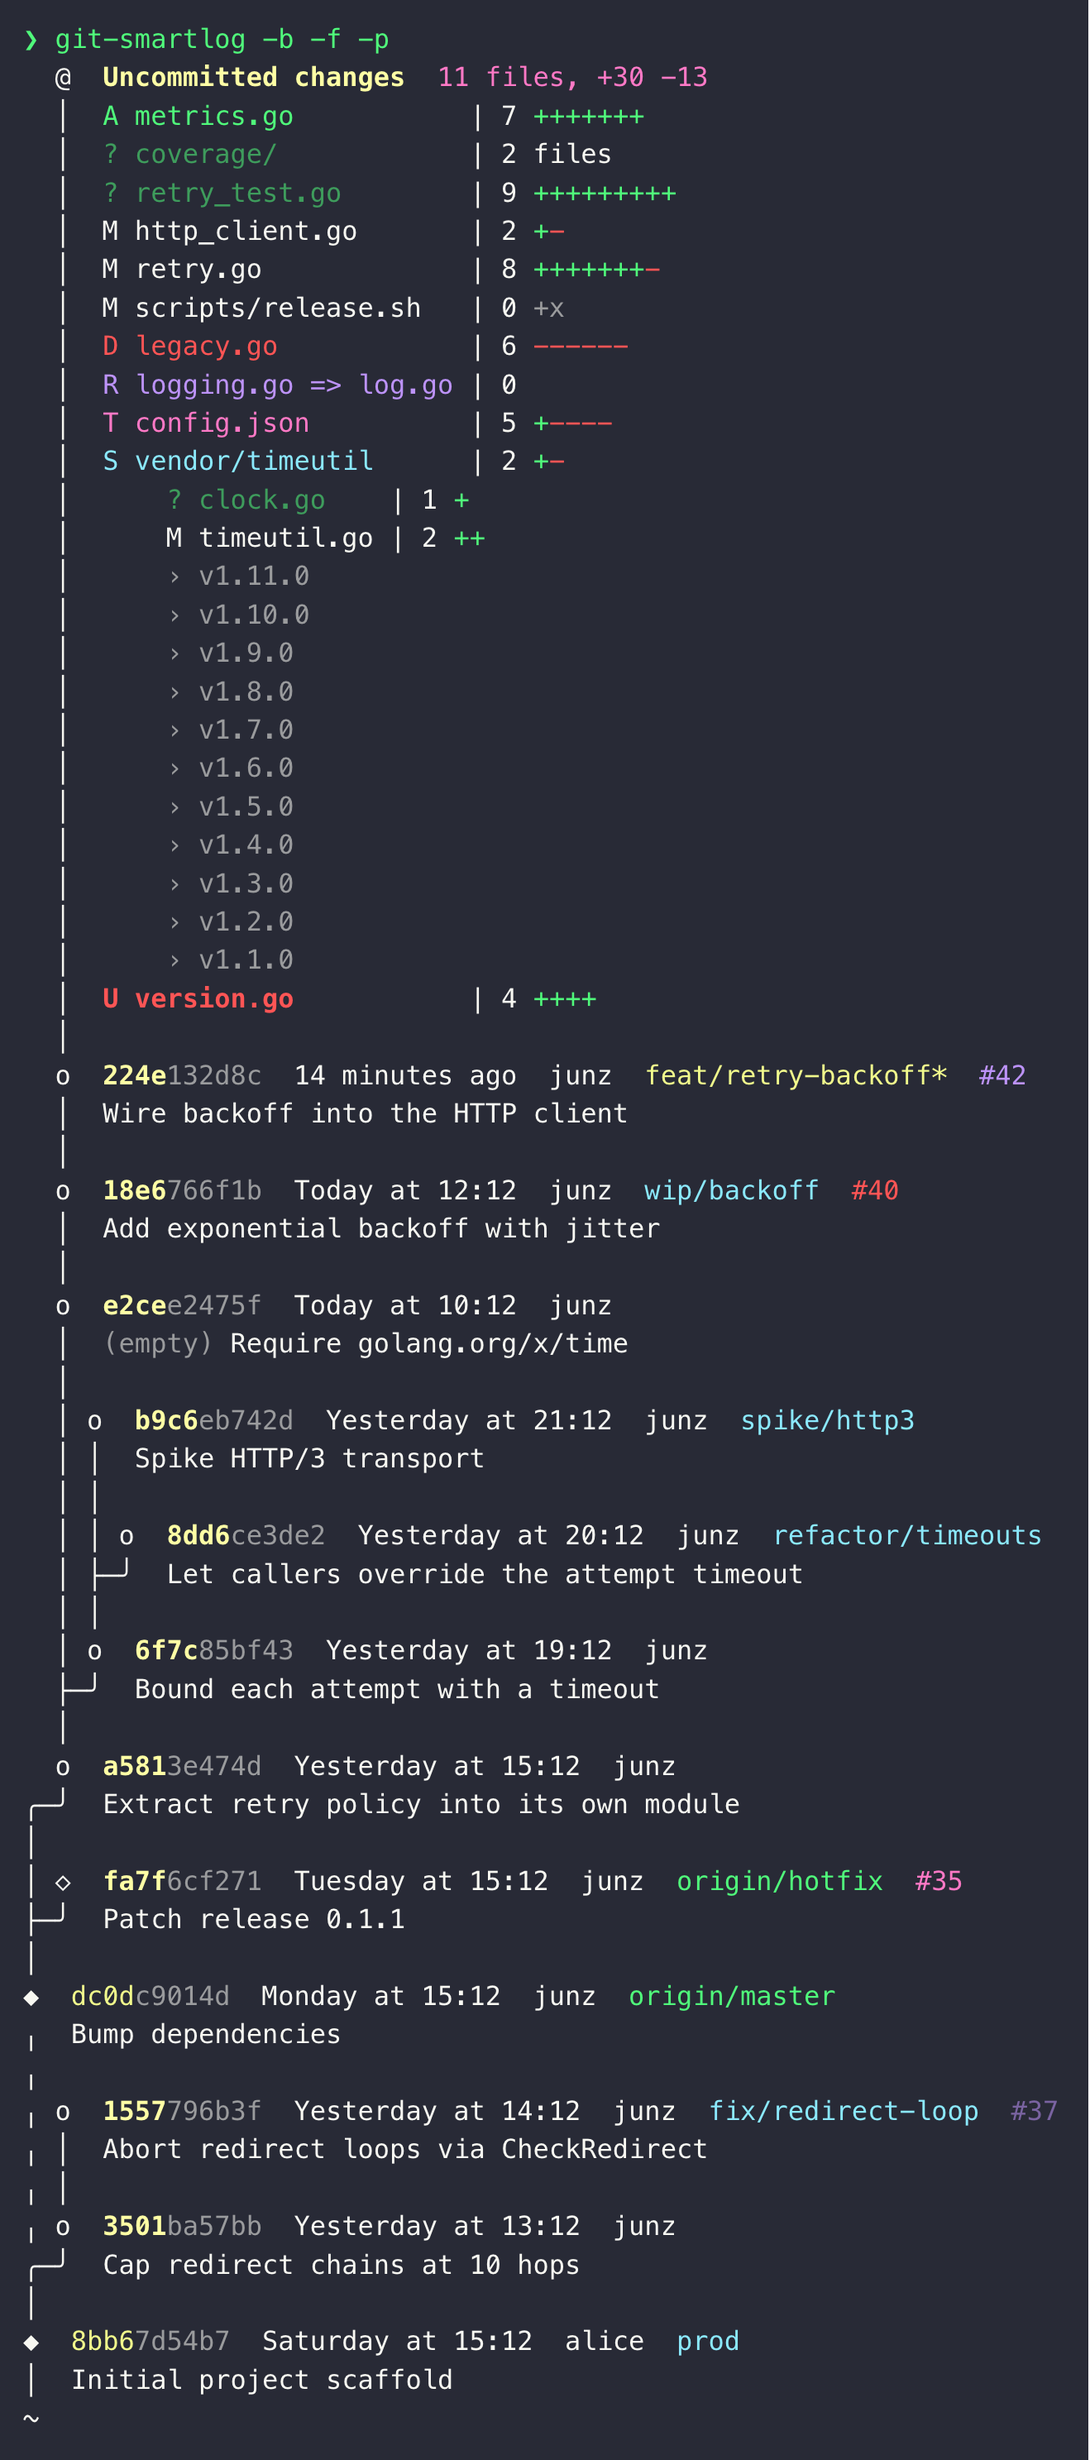
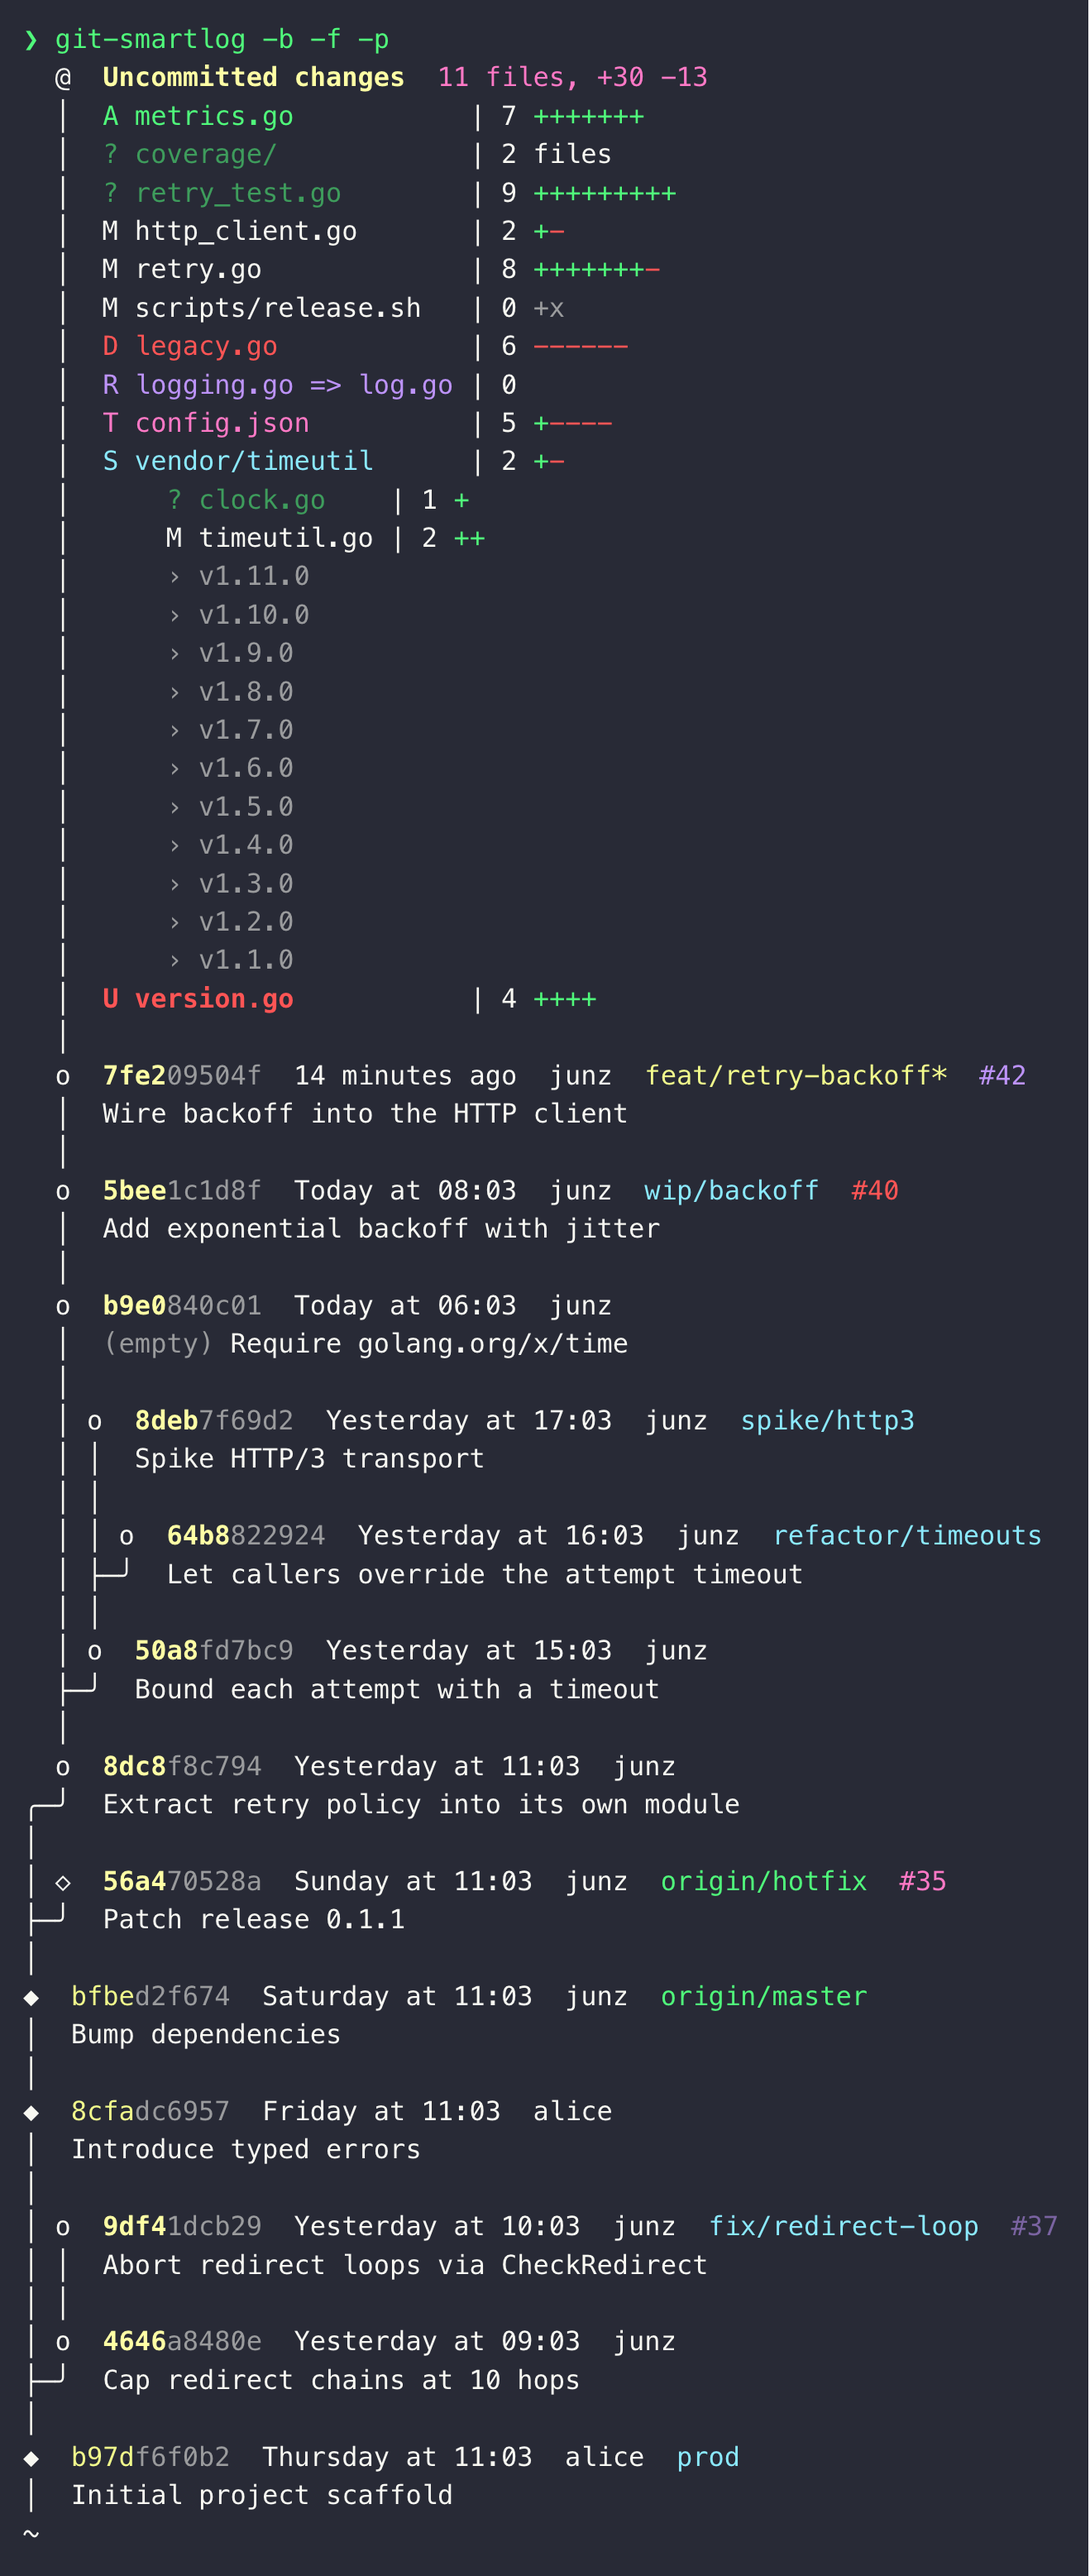
feat: fill small -b gaps under -f
With -b -f, a ╷ elision between shown publics now fills in when it hides
at most $GIT_SMARTLOG_GAP_FILL commits (default 10; 0 never fills). A
one-commit gap cost context and saved nothing; wide gaps still elide, so
a distant fork point can't push the other trees off screen.

Also restores the README usage block's missing -i note (off a terminal
it prints the plain view).

Copilot-Session: 58cf6c6c-0fcd-4d6a-b9bb-0dea36842b71

diff --git a/README.md b/README.md
@@ -228,7 +228,7 @@ $ git smartlog -c
 ~
 ```
 
-With `-b` / `--branches`, every **other local branch** joins the graph too, each rendering its **complete stack**. All heads' chains union into a forest, so a branch **forking from a draft commit** shows as a real fork, and commits **stacked above `HEAD`** — a branch containing `HEAD` while you're checked out mid-stack — appear too, with `@` drawn mid-tree. Fork points join the public column no matter how far down they sit, and commits skipped between them elide to a dotted `╷` spine. Two rules keep the graph quiet: a branch merged into the trunk just labels that commit instead of adding a node (`prod` below), and a branch whose same-name remote ref sits at the same commit shows only the remote name (`origin/hotfix`). Branch names render **cyan**, so they stand apart from green remote refs and the yellow active branch. Everything composes with `-c` and with the `-f` used here, which gives Alice's public commits their full headers and keeps the trunk streaming past the base:
+With `-b` / `--branches`, every **other local branch** joins the graph too, each rendering its **complete stack**. All heads' chains union into a forest, so a branch **forking from a draft commit** shows as a real fork, and commits **stacked above `HEAD`** — a branch containing `HEAD` while you're checked out mid-stack — appear too, with `@` drawn mid-tree. Fork points join the public column no matter how far down they sit, and commits skipped between them elide to a dotted `╷` spine. Two rules keep the graph quiet: a branch merged into the trunk just labels that commit instead of adding a node (`prod` below), and a branch whose same-name remote ref sits at the same commit shows only the remote name (`origin/hotfix`). Branch names render **cyan**, so they stand apart from green remote refs and the yellow active branch. Everything composes with `-c` and with the `-f` used here, which gives Alice's public commits their full headers, fills in the one trunk commit between `origin/master` and `fix/redirect-loop`'s fork point, and keeps the trunk streaming past the base:
 
 <!-- fixture: demo -->
 ```text
@@ -259,45 +259,48 @@ $ git smartlog -b -f
   │      › v1.1.0
   │  U version.go           | 4 ++++
   │
-  o  9c88963f33  14 minutes ago  junz  feat/retry-backoff*
+  o  42216c35a5  14 minutes ago  junz  feat/retry-backoff*
   │  Wire backoff into the HTTP client
   │
-  o  edb0dc38e9  Today at 12:11  junz  wip/backoff
+  o  57daeb2140  Today at 08:02  junz  wip/backoff
   │  Add exponential backoff with jitter
   │
-  o  d1a3bfbf91  Today at 10:11  junz
+  o  4df6239fc9  Today at 06:02  junz
   │  (empty) Require golang.org/x/time
   │
-  │ o  ba349a0ba4  Yesterday at 21:11  junz  spike/http3
+  │ o  ddf1350b1d  Yesterday at 17:02  junz  spike/http3
   │ │  Spike HTTP/3 transport
   │ │
-  │ │ o  bda5ff01ae  Yesterday at 20:11  junz  refactor/timeouts
+  │ │ o  edb584afbf  Yesterday at 16:02  junz  refactor/timeouts
   │ ├─╯  Let callers override the attempt timeout
   │ │
-  │ o  ced6e89fda  Yesterday at 19:11  junz
+  │ o  411fccf502  Yesterday at 15:02  junz
   ├─╯  Bound each attempt with a timeout
   │
-  o  469c357174  Yesterday at 15:11  junz
+  o  0c9d82941c  Yesterday at 11:02  junz
 ╭─╯  Extract retry policy into its own module
 │
-│ ◇  d98069450f  Tuesday at 15:11  junz  origin/hotfix
+│ ◇  5ddd520d79  Sunday at 11:02  junz  origin/hotfix
 ├─╯  Patch release 0.1.1
 │
-◆  f5ad6667d7  Monday at 15:11  junz  origin/master
-╷  Bump dependencies
-╷
-╷ o  f02cdf421c  Yesterday at 14:11  junz  fix/redirect-loop
-╷ │  Abort redirect loops via CheckRedirect
-╷ │
-╷ o  abb3ea8725  Yesterday at 13:11  junz
-╭─╯  Cap redirect chains at 10 hops
+◆  f134637b2e  Saturday at 11:02  junz  origin/master
+│  Bump dependencies
 │
-◆  1307e0e4e5  Saturday at 15:11  alice  prod
+◆  5b149b2ab4  Friday at 11:02  alice
+│  Introduce typed errors
+│
+│ o  e9a4f7c8de  Yesterday at 10:02  junz  fix/redirect-loop
+│ │  Abort redirect loops via CheckRedirect
+│ │
+│ o  574ef1b7bd  Yesterday at 09:02  junz
+├─╯  Cap redirect chains at 10 hops
+│
+◆  8a6c2f1a46  Thursday at 11:02  alice  prod
 │  Initial project scaffold
 ~
 ```
 
-At each fork the spine child (the one on `HEAD`'s path, else the newest subtree) continues the column and every other child opens a column one level deeper, newest first, closing with a `├─╯` bend right above the fork. Narrow the public window back to the default and the elision shows up too:
+At each fork the spine child (the one on `HEAD`'s path, else the newest subtree) continues the column and every other child opens a column one level deeper, newest first, closing with a `├─╯` bend right above the fork. Drop `-f` and the public window narrows back to the fork points themselves, so the trunk commit between them elides:
 
 <!-- fixture: demo -->
 ```text
@@ -366,7 +369,7 @@ $ git smartlog -b
 ~
 ```
 
-Here `refactor/timeouts` forks off a draft of the current stack and `spike/http3` off a draft of *that* branch, so the layout nests one level further. Sibling subtrees render newest-first, and the child on `HEAD`'s path continues the column. Below `origin/master`, `fix/redirect-loop`'s fork point sits two commits down the trunk, so the commit between them elides to the dotted `╷` spine. A dirty working tree draws its uncommitted node directly above `HEAD`, wherever `HEAD` sits in the tree.
+Here `refactor/timeouts` forks off a draft of the current stack and `spike/http3` off a draft of *that* branch, so the layout nests one level further. Sibling subtrees render newest-first, and the child on `HEAD`'s path continues the column. Below `origin/master`, `fix/redirect-loop`'s fork point sits two commits down the trunk, so the commit between them elides to the dotted `╷` spine. `-f` fills a gap like that back in when it hides at most `$GIT_SMARTLOG_GAP_FILL` commits (default 10; `0` never fills); a wider one stays elided either way. A dirty working tree draws its uncommitted node directly above `HEAD`, wherever `HEAD` sits in the tree.
 
 `--base REV` moves the bottom of the graph. The base is normally auto-detected — the nearest remote trunk — which covers `origin/main`, `origin/master` and a correctly-set `origin/HEAD`, and nothing else: a repo whose trunk is `develop` or `release/2.x`, or whose `origin/HEAD` is missing or stale after a rename, needs to be told. Here it's pointed at `prod`, the branch parked on the oldest public commit in the `-b` views above:
 
@@ -455,7 +458,8 @@ The view flags below are independent and combine freely.
   -i, --interactive   browse the graph in fzf: j/k step between commits, enter
                       opens the selected one in git-smartshow (the
                       uncommitted node opens the working copy), ? toggles its
-                      stat, / finds a row (needs fzf)
+                      stat, / finds a row (needs fzf; off a terminal it
+                      prints the plain view, so it is safe in an alias)
   -c, --changes       show per-file changes under every commit in the current
                       stack — or under the public commit in view when HEAD
                       sits on the trunk (pair with -f for history); the
@@ -469,8 +473,9 @@ The view flags below are independent and combine freely.
                       render metadata-only), keep streaming older
                       public history below the base — lazily when paged, like
                       git log — and stop capping a submodule entry's sub-lines
-                      at 10 (-b's ╷ elision stays — it keeps distant fork
-                      points adjacent, which is the point of that view)
+                      at 10; with -b, also fill a ╷ gap between fork points
+                      when it hides at most $GIT_SMARTLOG_GAP_FILL commits
+                      (default 10; 0 never fills) — wider gaps stay elided
   -m, --message       show full commit messages: body lines render dim under
                       each subject — every commit in view, except public
                       commits compacted to metadata-only (lift with -f)
@@ -638,13 +643,13 @@ Piped, `git smartshow` prints the diff once and exits — git's renderer unless 
 - **`(empty)`** — a commit whose tree equals its first parent's (the empty tree for a root commit) gets its subject prefixed `(empty)`, and no `-c` body. jj labels these in its log; git doesn't, so an emptied commit looks like any other. Decided from tree hashes, not diffs: `%T` rides along with the metadata every row already fetches, and the handful of parents outside the window are fetched in one batch rather than a `rev-parse` per row. In the `-f` tail, where there is no window to batch over, rows are held one behind — in a first-parent walk the next record *is* the previous row's parent.
 - **Uncommitted changes** — whenever `git status` is non-empty, a synthetic node on top of `HEAD` carrying compact totals plus per-file `git diff --stat HEAD` bars; the `@` marker moves there. Borrowed from jj, where the working copy *is* a commit and needs no synthesis. The bars need no flag, unlike a commit's: a commit's subject already says what it did, so `-c` is an ask; the working copy has no subject, so its files *are* the description. Totals and bars alike are computed against a throwaway index overlay that intent-to-adds loose untracked files so they're folded in without mutating the repo (a wholly-untracked directory instead collapses to one `dir/ | N files` entry, like `git status`). Each body filename gets a one-letter change marker (`A`/`?`/`M`/`D`/`R`/`T`/`S`/`U`, from `git diff --raw`, plus the porcelain status for conflicts) colored by kind (see the marker table above), and a `+x`/`-x` hint on executable-bit flips. This block is computed by the in-file `uncommitted_stat` function — the same code the [`git-smartstat`](#git-smartstat) command runs.
 - **Public window** — one commit: the base, with `~` below it. `-f` streams the history below instead.
-- **Other branches** — with `-b`/`--branches`, every head's first-parent chain is unioned into a forest of draft trees (shared prefixes dedup), each rendered above its root's public fork point: the spine child continues the column, side subtrees open one column deeper per fork level and close with a `├─╯` bend above the fork. Sibling subtrees order by newest commit date and the spine prefers `HEAD`'s path — Git has no revision numbers to sort by. Includes commits stacked above `HEAD`. Fork points are added to the public column no matter how far down they sit, with commits skipped between them eliding to a dotted `╷` spine. Branch names render cyan so they stand apart from green remote refs. Two branches don't get a node of their own: one merged into the trunk (its head *is* the merge-base) labels that public commit instead, and one whose same-name remote ref sits at the same commit shows only the remote name.
+- **Other branches** — with `-b`/`--branches`, every head's first-parent chain is unioned into a forest of draft trees (shared prefixes dedup), each rendered above its root's public fork point: the spine child continues the column, side subtrees open one column deeper per fork level and close with a `├─╯` bend above the fork. Sibling subtrees order by newest commit date and the spine prefers `HEAD`'s path — Git has no revision numbers to sort by. Includes commits stacked above `HEAD`. Fork points are added to the public column no matter how far down they sit, with commits skipped between them eliding to a dotted `╷` spine — unless `-f` is on and the gap is at most `$GIT_SMARTLOG_GAP_FILL` commits (default 10; `0` never fills), in which case they render in full. Branch names render cyan so they stand apart from green remote refs. Two branches don't get a node of their own: one merged into the trunk (its head *is* the merge-base) labels that public commit instead, and one whose same-name remote ref sits at the same commit shows only the remote name.
 - **PR numbers** — with `-p`/`--prs`, every branch name shown on a commit (the active branch, a remote bookmark, or a `-b` local) that has a GitHub PR gets a trailing `#N` tag: blue for open, dim blue for draft, magenta for merged, red for closed — and, on a color-capable TTY, an OSC 8 hyperlink to the PR. One `gh pr list --state all` call maps branches to PRs (a branch with several keeps an open one over closed/merged, else the newest); the trunk's own branch is skipped so its long-merged PR doesn't tag every graph. The call's ~1s API round-trip is cached per repo in the git dir for `$GIT_SMARTLOG_PR_TTL` seconds (default 60; `0` forces a refetch), so only the first `-p` run in a while pays it. Needs the GitHub CLI (`gh`); a failed listing warns and falls back to the stale cache, else renders without tags. `-p` is sticky per repo — it drops a marker file in the git dir (`smartlog-pr-on`), so later runs tag PRs without the flag; `-P`/`--no-prs` removes the marker and turns tagging off (winning when both are given). When tagging is on only via the marker, a missing `gh` warns instead of erroring, so plain runs keep working on a machine without it.
 - **Subjects** — shown in full, never truncated to the terminal width, so a long one wraps rather than ending in an ellipsis. On a TTY the wrap is the renderer's own: word-boundary continuation rows that keep the gutter and align under the subject column. Piped output leaves the line whole.
 - **Message bodies** — with `-m`/`--message`, each commit's message body renders dim line-by-line under its subject, above any `-c` stat body. Long lines word-wrap to the terminal width, continuation rows keeping the gutter and the line's leading indent; piped output stays unwrapped. The window's bodies come from one extra batched `git log` pass (NUL-separated — bodies are multi-line); the `-f` streamed tail fetches one body per row, lazily, like its `-c` stats.
 - **Color** — ANSI, automatically suppressed when stdout isn't a TTY or `NO_COLOR` is set.
 - **Paging** — output taller than the terminal is piped through a pager (`$GIT_PAGER`, then git's `core.pager`, then `$PAGER`, then `less` with `LESS=FRX` like git). Output that fits, or piped/redirected output, prints directly; `GIT_PAGER=cat` disables paging. Colors survive the pager.
-- **Infinite scroll** — with `-f`/`--full`, the public column doesn't stop at the base: older history keeps streaming below it — lazily when paged, so scrolling keeps revealing commits like plain `git log`, down to the root commit. Without `-f` the base row and the trailing `~` truncation row are unconditional. `-f` is the one *don't abbreviate* switch, so the same flag also restores full headers on other authors' public commits and lifts the 10-line cap on a submodule entry's sub-lines — the only way to see every commit a big bump brought in. It deliberately leaves `-b`'s `╷` elision alone: this tail streams lazily and only downward, one row per scroll, while filling the gaps *between* fork points is eager and unbounded — a branch forking 200 commits down the trunk would push every other tree off screen. Keeping distant fork points adjacent is the whole point of the `-b` view.
+- **Infinite scroll** — with `-f`/`--full`, the public column doesn't stop at the base: older history keeps streaming below it — lazily when paged, so scrolling keeps revealing commits like plain `git log`, down to the root commit. Without `-f` the base row and the trailing `~` truncation row are unconditional. `-f` is the one *don't abbreviate* switch, so the same flag also restores full headers on other authors' public commits and lifts the 10-line cap on a submodule entry's sub-lines — the only way to see every commit a big bump brought in. It fills `-b`'s `╷` elision only for small gaps — at most `$GIT_SMARTLOG_GAP_FILL` commits (default 10; `0` never fills): this tail streams lazily and only downward, one row per scroll, while filling the gaps *between* fork points is eager — a branch forking 200 commits down the trunk would push every other tree off screen. Keeping distant fork points adjacent is the whole point of the `-b` view, so wider gaps stay elided.
 
 ## License
 
